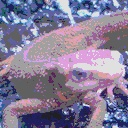
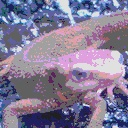
Q.6. 減色処理

diff --git a/Question_01_10/my_answer_06.py b/Question_01_10/my_answer_06.py
@@ -7,18 +7,18 @@ r = img[:,:,2]
 g = img[:,:,1]
 b = img[:,:,0]
 
-r[np.where((  0 <= r) &  (r <  63))] =  32
-r[np.where(( 64 <= r) &  (r < 127))] =  96
-r[np.where((127 <= r) &  (r < 191))] = 160
-r[np.where((191 <= r) &  (r < 256))] = 224
-g[np.where((  0 <= g) &  (g <  63))] =  32
-g[np.where(( 64 <= g) &  (g < 127))] =  96
-g[np.where((127 <= g) &  (g < 191))] = 160
-g[np.where((191 <= g) &  (g < 256))] = 224
-b[np.where((  0 <= b) &  (b <  63))] =  32
-b[np.where(( 64 <= b) &  (b < 127))] =  96
-b[np.where((127 <= b) &  (b < 191))] = 160
-b[np.where((191 <= b) &  (b < 256))] = 224
+r[np.where((  0 <= r) & (r <  64))] =  32
+r[np.where(( 64 <= r) & (r < 128))] =  96
+r[np.where((128 <= r) & (r < 192))] = 160
+r[np.where((192 <= r) & (r < 256))] = 224
+g[np.where((  0 <= g) & (g <  64))] =  32
+g[np.where(( 64 <= g) & (g < 128))] =  96
+g[np.where((128 <= g) & (g < 192))] = 160
+g[np.where((192 <= g) & (g < 256))] = 224
+b[np.where((  0 <= b) & (b <  64))] =  32
+b[np.where(( 64 <= b) & (b < 128))] =  96
+b[np.where((128 <= b) & (b < 192))] = 160
+b[np.where((192 <= b) & (b < 256))] = 224
 
 img[:,:,2] = r
 img[:,:,1] = g
